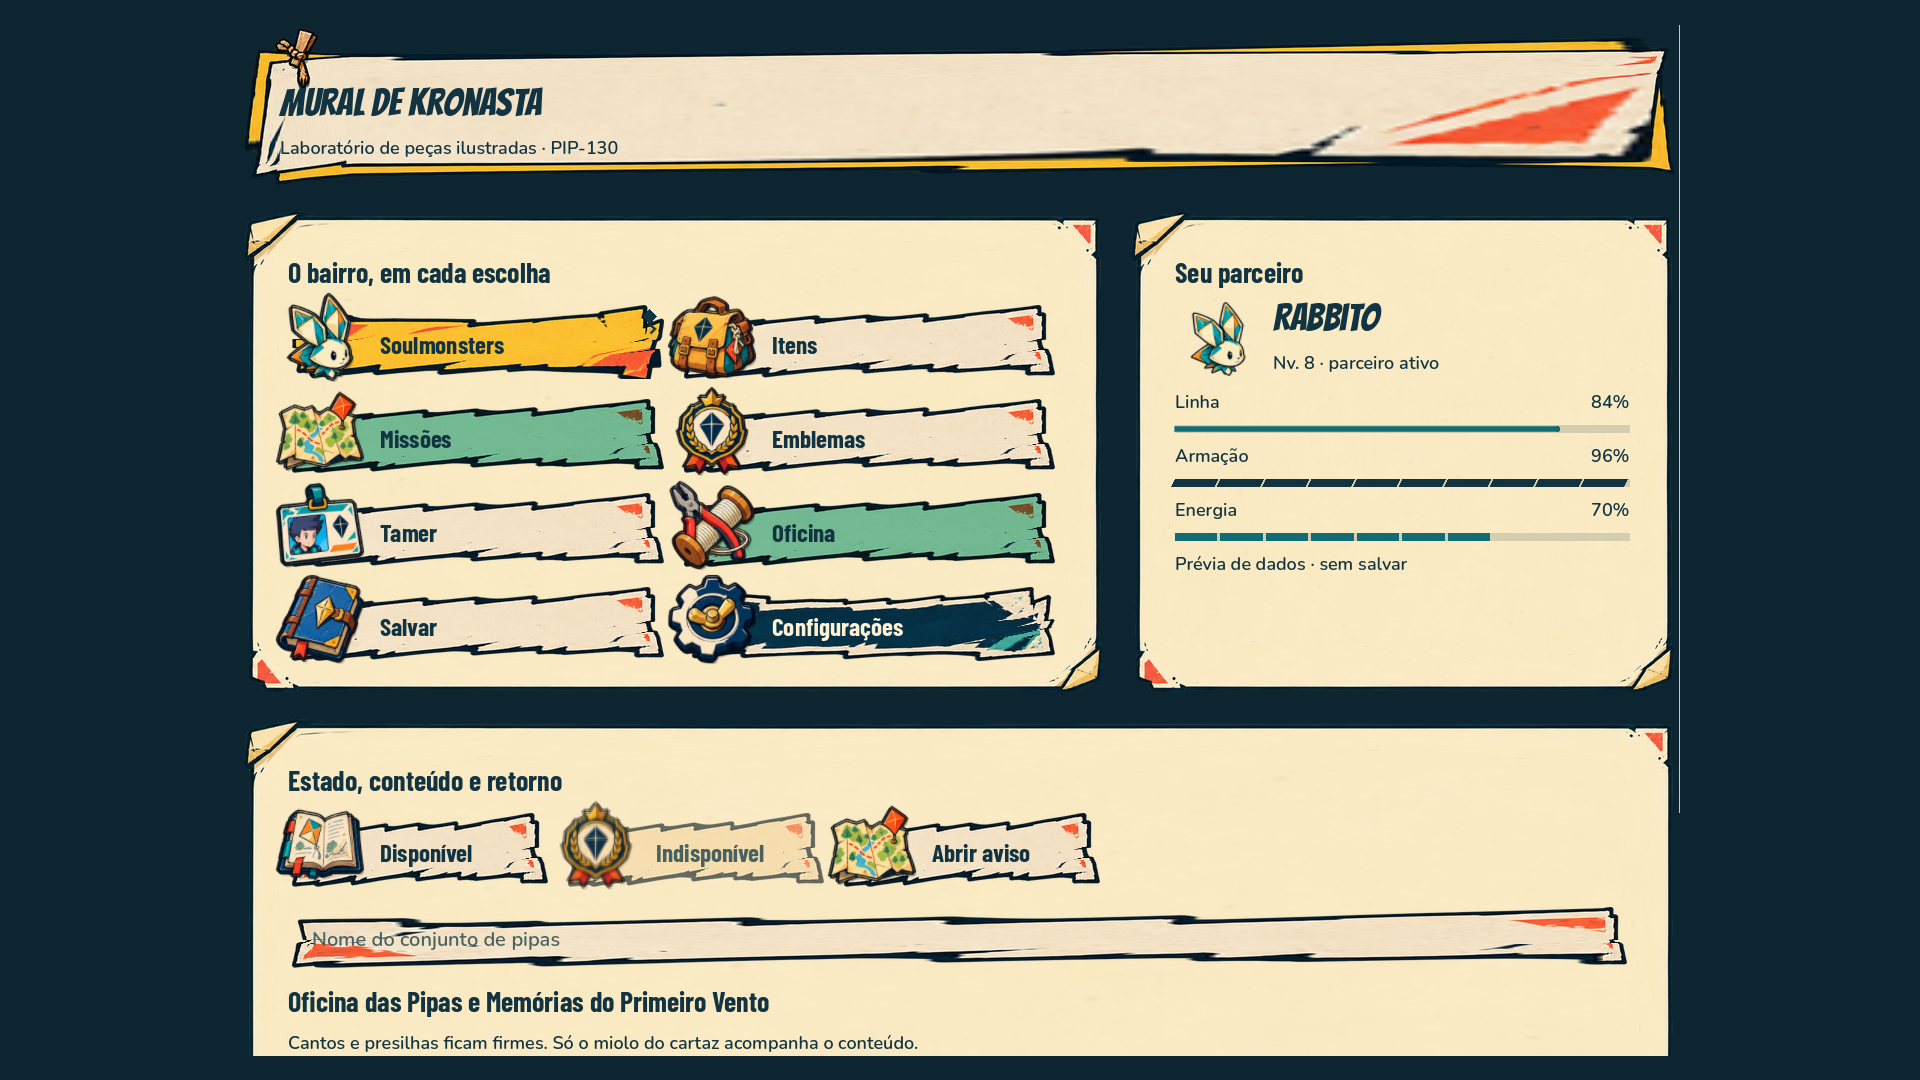
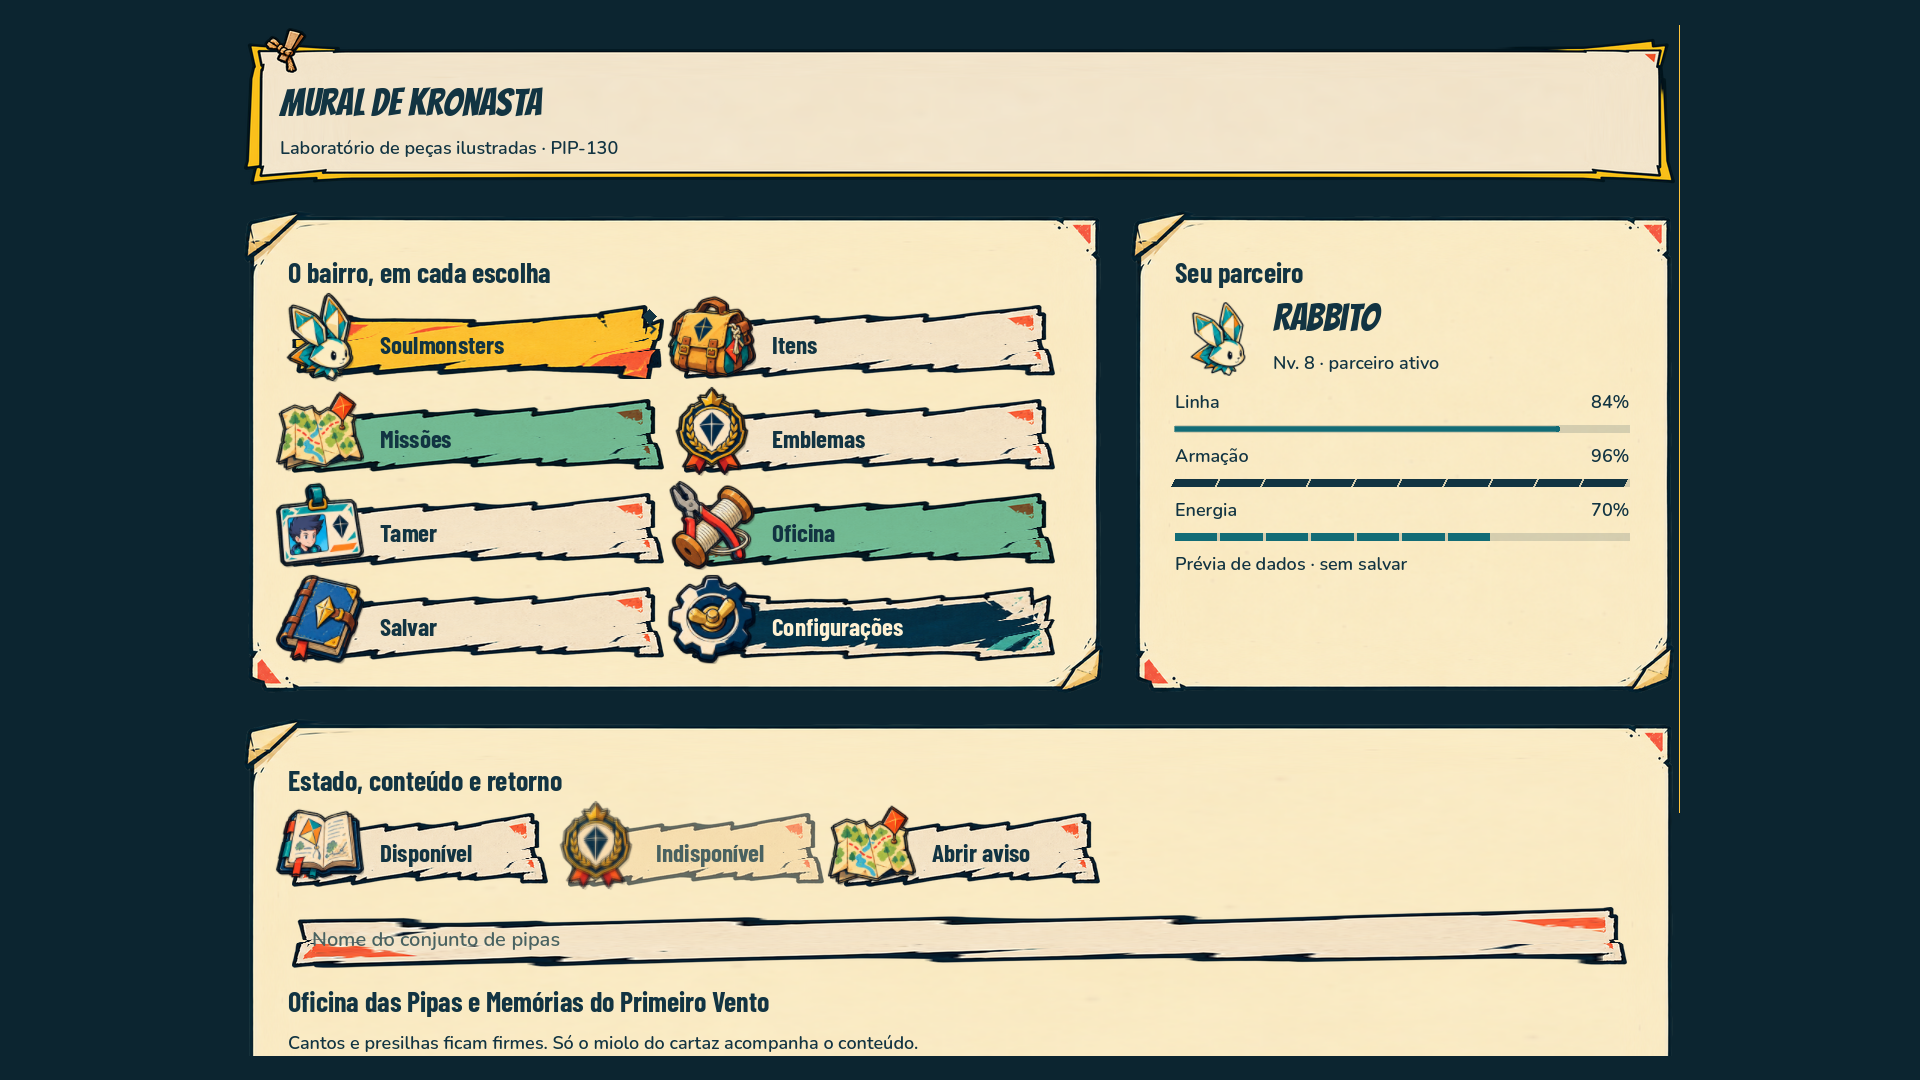
PIP-130: preservar cantos da faixa sem esticar o ornamento

Changed region(s): [[0.125, 0.0306, 0.875, 0.1833]]

diff --git a/documentation/hud-v2/pip-130/index.html b/documentation/hud-v2/pip-130/index.html
@@ -1,1 +1,1 @@
-<!doctype html><html lang="pt-BR"><head><meta charset="utf-8"><meta name="viewport" content="width=device-width,initial-scale=1"><title>Mural de Kronasta · sistema base no Godot</title><style>*{box-sizing:border-box}body{margin:0;background:#f6edd9;color:#123442;font:17px/1.6 system-ui,sans-serif}header,main,footer{max-width:1520px;margin:auto;padding:28px clamp(18px,4vw,60px)}header{border-bottom:1px solid #839995}h1{font-size:clamp(34px,5vw,64px);line-height:1.05;letter-spacing:-.04em}p{max-width:950px}a{color:#126c76;text-underline-offset:4px}.controls,nav{display:flex;flex-wrap:wrap;gap:14px;align-items:center}select{font:inherit;padding:9px;background:#fff8e8;color:#123442;border:1px solid #496261}label{font-size:15px;font-weight:650;display:flex;gap:9px;align-items:center}img{display:block;max-width:100%;height:auto;border:1px solid #496261;margin:20px 0}.notice{border-left:4px solid #ad382c;background:#eedcc2;padding:14px 20px}.eyebrow{font-size:12px;font-weight:700;letter-spacing:.12em;text-transform:uppercase}.proof{display:grid;grid-template-columns:repeat(3,minmax(0,1fr));gap:20px}.proof p{font-size:15px}a:focus-visible,select:focus-visible{outline:3px solid #ad382c;outline-offset:4px}footer{border-top:1px solid #839995;font-size:14px}code{font-size:.88em;overflow-wrap:anywhere}@media(max-width:850px){.proof{grid-template-columns:1fr}}</style></head><body><header><div class="eyebrow">Soulmonsters / PIP-130 / Godot 4.7.2</div><h1>O mural virou<br>peças de jogo.</h1><p>Cartazes ilustrados, painéis com cantos fixos, 12 ícones próprios, tipografia e Theme reutilizável. Estas são capturas do laboratório no Godot, com textos e controles nativos.</p><nav><a href="../PIP-130.md">Relatório completo</a><a href="../../../art/ui/soulmonsters-v2/pip-130/SISTEMA.md">Sistema e reprodução</a><a href="../../../godot/scenes/mural_lab.tscn">Cena para abrir no Godot</a></nav></header><main><p><strong>977 checks novos passaram.</strong> Composição em quatro resoluções, texto a 150%, navegação e foco com eventos simulados. O sistema é opt-in: a campanha ainda mantém a interface atual até a migração de cada tela.</p><div class="controls"><label for="size">Resolução <select id="size"><option>1280x720</option><option>1920x1080</option><option>1024x768</option><option>1280x800</option></select></label><label for="proof">Prova <select id="proof"><option value="principal">Laboratório principal</option><option value="pressionado">Botão pressionado</option><option value="estados">Estados e conteúdo</option><option value="texto-150">Texto 150% · início</option><option value="texto-150-dados">Texto 150% · dados</option></select></label></div><p id="status" role="status" aria-live="polite"></p><a id="full" href="capturas/1280x720-principal.png"><img id="image" src="capturas/1280x720-principal.png" alt="Laboratório Mural de Kronasta no Godot, 1280 por 720"></a><p>Amplie a imagem para conferir em tamanho nativo. Resoluções menores e texto ampliado usam redistribuição e rolagem, sem diminuir a fonte de toda a tela.</p><div class="proof"><section><h2>Arte modular</h2><p>21 arquivos RGBA: nove suportes/ornamentos e 12 ícones. Os botões têm ilustrações de 96 px que ultrapassam a borda e continuam clicáveis. Cartazes compactos e painéis altos têm construções distintas; presilhas e cantos ficam fixos.</p><a href="../../../art/ui/soulmonsters-v2/pip-130/geracao.json">Prompts e proveniência</a></section><section><h2>Interação nativa</h2><p>Button, campos, popup e foco do Godot; disponibilidade e retorno de foco verificados. Controle e mouse foram simulados: não houve teste de hardware físico ou fluxo completo da campanha.</p><a href="testes.json">Resultados do teste novo</a></section><section><h2>Leitura medida</h2><p>Valores e rótulos separados da arte. Linha contínua, nervuras de Armação e células de Energia, com nome e valor. Pares técnicos de contraste registrados, sem declarar certificação.</p><a href="contraste.json">Medições de contraste</a></section></div><div class="notice"><strong>Auditorias legadas continuam com falhas:</strong> 53 em ui_tokens_checks e uma em recorte_theme_checks. Os 54 arquivos reportados foram comparados com o HEAD anterior e estão inalterados. Os testes antigos não foram enfraquecidos nem declarados aprovados. <a href="regressoes-legadas.json">Comparação de fontes</a>.</div></main><footer>Fundação funcional isolada, não migração de todas as telas · Sem save de campanha, merge ou push · Próxima etapa: PIP-131, marca e título.</footer><script>const size=document.querySelector('#size'),proof=document.querySelector('#proof'),image=document.querySelector('#image'),full=document.querySelector('#full'),status=document.querySelector('#status');function update(){const path='capturas/'+size.value+'-'+proof.value+'.png';image.src=path;full.href=path;image.alt='Captura nativa do Godot: '+size.value+' / '+proof.options[proof.selectedIndex].text;status.textContent=size.value+' · '+proof.options[proof.selectedIndex].text+' · Abrir para ampliar';}size.addEventListener('change',update);proof.addEventListener('change',update);update();</script></body></html>
+<!doctype html><html lang="pt-BR"><head><meta charset="utf-8"><meta name="viewport" content="width=device-width,initial-scale=1"><title>Mural de Kronasta · sistema base no Godot</title><style>*{box-sizing:border-box}body{margin:0;background:#f6edd9;color:#123442;font:17px/1.6 system-ui,sans-serif}header,main,footer{max-width:1520px;margin:auto;padding:28px clamp(18px,4vw,60px)}header{border-bottom:1px solid #839995}h1{font-size:clamp(34px,5vw,64px);line-height:1.05;letter-spacing:-.04em}p{max-width:950px}a{color:#126c76;text-underline-offset:4px}.controls,nav{display:flex;flex-wrap:wrap;gap:14px;align-items:center}select{font:inherit;padding:9px;background:#fff8e8;color:#123442;border:1px solid #496261}label{font-size:15px;font-weight:650;display:flex;gap:9px;align-items:center}img{display:block;max-width:100%;height:auto;border:1px solid #496261;margin:20px 0}.notice{border-left:4px solid #ad382c;background:#eedcc2;padding:14px 20px}.eyebrow{font-size:12px;font-weight:700;letter-spacing:.12em;text-transform:uppercase}.proof{display:grid;grid-template-columns:repeat(3,minmax(0,1fr));gap:20px}.proof p{font-size:15px}a:focus-visible,select:focus-visible{outline:3px solid #ad382c;outline-offset:4px}footer{border-top:1px solid #839995;font-size:14px}code{font-size:.88em;overflow-wrap:anywhere}@media(max-width:850px){.proof{grid-template-columns:1fr}}</style></head><body><header><div class="eyebrow">Soulmonsters / PIP-130 / Godot 4.7.2</div><h1>O mural virou<br>peças de jogo.</h1><p>Cartazes ilustrados, painéis com cantos fixos, 12 ícones próprios, tipografia e Theme reutilizável. Estas são capturas do laboratório no Godot, com textos e controles nativos.</p><nav><a href="../PIP-130.md">Relatório completo</a><a href="../../../art/ui/soulmonsters-v2/pip-130/SISTEMA.md">Sistema e reprodução</a><a href="../../../godot/scenes/mural_lab.tscn">Cena para abrir no Godot</a></nav></header><main><p><strong>978 checks novos passaram.</strong> Composição em quatro resoluções, texto a 150%, navegação e foco com eventos simulados. O sistema é opt-in: a campanha ainda mantém a interface atual até a migração de cada tela.</p><p><a href="capturas/faixa-larguras.png">Ver a correção da faixa em 400, 760 e 1.200 px</a></p><div class="controls"><label for="size">Resolução <select id="size"><option>1280x720</option><option>1920x1080</option><option>1024x768</option><option>1280x800</option></select></label><label for="proof">Prova <select id="proof"><option value="principal">Laboratório principal</option><option value="pressionado">Botão pressionado</option><option value="estados">Estados e conteúdo</option><option value="texto-150">Texto 150% · início</option><option value="texto-150-dados">Texto 150% · dados</option></select></label></div><p id="status" role="status" aria-live="polite"></p><a id="full" href="capturas/1280x720-principal.png"><img id="image" src="capturas/1280x720-principal.png" alt="Laboratório Mural de Kronasta no Godot, 1280 por 720"></a><p>Amplie a imagem para conferir em tamanho nativo. Resoluções menores e texto ampliado usam redistribuição e rolagem, sem diminuir a fonte de toda a tela.</p><div class="proof"><section><h2>Arte modular</h2><p>22 arquivos RGBA, incluindo a faixa anterior preservada. Os suportes ativos e os 12 ícones permanecem separados. Os botões têm ilustrações de 96 px que ultrapassam a borda e continuam clicáveis. Cartazes compactos e painéis altos têm construções distintas; presilhas e cantos ficam fixos.</p><a href="../../../art/ui/soulmonsters-v2/pip-130/geracao.json">Prompts e proveniência</a></section><section><h2>Interação nativa</h2><p>Button, campos, popup e foco do Godot; disponibilidade e retorno de foco verificados. Controle e mouse foram simulados: não houve teste de hardware físico ou fluxo completo da campanha.</p><a href="testes.json">Resultados do teste novo</a></section><section><h2>Leitura medida</h2><p>Valores e rótulos separados da arte. Linha contínua, nervuras de Armação e células de Energia, com nome e valor. Pares técnicos de contraste registrados, sem declarar certificação.</p><a href="contraste.json">Medições de contraste</a></section></div><div class="notice"><strong>Auditorias legadas continuam com falhas:</strong> 53 em ui_tokens_checks e uma em recorte_theme_checks. Os 54 arquivos reportados foram comparados com o HEAD anterior e estão inalterados. Os testes antigos não foram enfraquecidos nem declarados aprovados. <a href="regressoes-legadas.json">Comparação de fontes</a>.</div></main><footer>Fundação funcional isolada, não migração de todas as telas · Sem save de campanha, merge ou push · Próxima etapa: PIP-131, marca e título.</footer><script>const size=document.querySelector('#size'),proof=document.querySelector('#proof'),image=document.querySelector('#image'),full=document.querySelector('#full'),status=document.querySelector('#status');function update(){const path='capturas/'+size.value+'-'+proof.value+'.png';image.src=path;full.href=path;image.alt='Captura nativa do Godot: '+size.value+' / '+proof.options[proof.selectedIndex].text;status.textContent=size.value+' · '+proof.options[proof.selectedIndex].text+' · Abrir para ampliar';}size.addEventListener('change',update);proof.addEventListener('change',update);update();</script></body></html>

diff --git a/art/ui/soulmonsters-v2/pip-130/slice_assets.py b/art/ui/soulmonsters-v2/pip-130/slice_assets.py
@@ -47,6 +47,10 @@ with Image.open(ROOT / 'fontes/boards-source.png') as board_source:
 for n, name in enumerate(['board-paper','board-ink','board-sun']):
     cut('boards-source.png', name, (round(n*width/3),0,round((n+1)*width/3),height), 'pieces')
 
+with Image.open(ROOT / 'fontes/title-paper-corners-source.png') as title_source:
+    width, height = title_source.size
+cut('title-paper-corners-source.png', 'title-paper-v2', (0,0,width,height), 'pieces')
+
 # The generated sheet's optical rows are not mathematically equal. Cuts follow
 # the transparent gutters, inspected before export, instead of clipping art.
 xs, ys = [0, 386, 730, 1094, 1448], [0, 402, 735, 1086]

diff --git a/art/ui/soulmonsters-v2/pip-130/SISTEMA.md b/art/ui/soulmonsters-v2/pip-130/SISTEMA.md
@@ -6,7 +6,7 @@ Direção: [B ilustrada, revisão 2](../pip-128-v2/B-prancha.png), escolhida na 
 
 A assinatura combina cartaz impresso de contorno desenhado, dobra/reforço de papel e registro de tinta. Amarrações e presilhas pertencem às peças fixas. As escolhas usam cartazes mais expressivos; superfícies altas de consulta usam borda calma para não repetir rasgos junto aos números. Os ícones são ilustrações próprias com contorno e sombra chapada, não símbolos genéricos substitutos.
 
-Foram produzidos três atlases por ferramenta integrada de imagem: seis suportes/ornamentos, 12 ícones e três painéis altos. As artes foram inspecionadas antes do corte. `geracao.json` registra referências e saídas; os três prompts estão nesta pasta. `slice_assets.py` só faz cortes mecânicos, enquadramento por alpha, redução proporcional e padding transparente; não redesenha personagens nem modifica a paleta. As fontes originais permanecem em `fontes/`.
+Foram produzidos três atlases por ferramenta integrada de imagem: seis suportes/ornamentos, 12 ícones e três painéis altos; depois, uma edição específica da faixa corrigiu seus cantos expansíveis. As artes foram inspecionadas antes do corte. `geracao.json` registra referências e saídas; os três prompts estão nesta pasta. `slice_assets.py` só faz cortes mecânicos, enquadramento por alpha, redução proporcional e padding transparente; não redesenha personagens nem modifica a paleta. As fontes originais permanecem em `fontes/`.
 
 ### Famílias de suporte
 
@@ -17,7 +17,9 @@ Foram produzidos três atlases por ferramenta integrada de imagem: seis suportes
 | `clips` | Ornamento separado, opcional; não esticar junto ao conteúdo. |
 | `board-paper`, `board-ink`, `board-sun` | Superfícies grandes, com cantos ilustrados e trechos retos expansíveis. |
 
-O recorte para peças compactas usa margens de textura 28/36/28/28 px (esquerda/cima/direita/baixo), no arquivo reduzido. Painéis altos usam 60 px em cada lado. A faixa clara usa canto esquerdo de 112 px e topo de 55 px para preservar a presilha. O centro acompanha o conteúdo; cantos, ícones e presilhas não são reescalados pelo comprimento do texto. A repetição vertical de rasgos foi reprovada na revisão e removida com o atlas de painéis próprios.
+O recorte para peças compactas usa margens de textura 28/36/28/28 px (esquerda/cima/direita/baixo), no arquivo reduzido. Painéis altos usam 60 px em cada lado. A faixa clara ativa é `title-paper-v2`: margens 112/55/96/28 px. A presilha e o pequeno registro vermelho ficam inteiros nos cantos superiores fixos; só papel vazio participa da expansão. A peça anterior permanece como histórico, sem uso pelo Theme. O centro acompanha o conteúdo; cantos, ícones e presilhas não são reescalados pelo comprimento do texto. A repetição vertical de rasgos foi reprovada na revisão e removida com o atlas de painéis próprios.
+
+Na revisão da faixa, o dono apontou um detalhe vermelho esticado: o corte direito de 28 px deixava parte dele na área central, e a decoração também atravessava o corte vertical. Foi produzida uma versão específica com o registro restrito ao canto superior e corte direito de 96 px. `title-corners-prompt.txt` e `fontes/title-paper-corners-source.png` preservam a edição. A prova `faixa-larguras.png` compara 400, 760 e 1.200 px; o teste do Theme verifica que os pixels vermelhos ficam fora das duas faixas expansíveis.
 
 ## Paleta semântica
 

diff --git a/documentation/hud-v2/PIP-130.md b/documentation/hud-v2/PIP-130.md
@@ -6,17 +6,19 @@ Entrega local: 01/11/2026, branch `codex/hud-identidade-soulmonsters`. Direção
 
 ## Entrega
 
-21 peças RGBA de produção: nove suportes/ornamentos e 12 ícones. Três atlases originais com prompts/proveniência, recortes reproduzíveis, paleta semântica centralizada, papéis de tipografia, Theme `.tres`, botão nativo com foco/estado e medidores por forma. O laboratório demonstra menus, campos, mensagens, indicadores, textos longos e retorno de uma janela modal, sem sessão/save.
+22 arquivos RGBA: dez suportes/ornamentos (incluindo a faixa anterior histórica) e 12 ícones. Três atlases originais com prompts/proveniência, recortes reproduzíveis, paleta semântica centralizada, papéis de tipografia, Theme `.tres`, botão nativo com foco/estado e medidores por forma. O laboratório demonstra menus, campos, mensagens, indicadores, textos longos e retorno de uma janela modal, sem sessão/save.
 
 O Theme reaproveita a cobertura técnica anterior; a instalação nova é explícita e isolada. O Theme global, a campanha, seus fluxos e o balanceamento não mudaram nesta tarefa. Assets ilustrados são separados dos rótulos e valores nativos. Ícones usam redução filtrada com mipmaps.
 
 ## Verificação
 
+Correção da faixa: o detalhe vermelho estava incluído parcialmente no centro expansível. `title-paper-v2` coloca os ornamentos nos cantos superiores, com margem direita de 96 px; a peça anterior foi preservada. [Comparação em três larguras](pip-130/capturas/faixa-larguras.png). O teste adicional verifica a região dos pixels vermelhos nos dois eixos. O pacote passou a conter 22 imagens RGBA, incluindo a faixa anterior histórica; a interface usa a nova peça.
+
 Revisão posterior do dono: os ícones estavam pequenos e deveriam sair do card. A ilustração passou para uma camada independente de 96×96 px, com contorno claro/sombra curta e área exposta clicável. O texto mantém recuo de 92 px. Foram adicionadas verificações de colisão entre cartões, espaço dos títulos e limites do viewport nas quatro resoluções e em texto ampliado; gutters da primeira linha do atlas também foram corrigidos. As 20 capturas foram renovadas.
 
 | Prova | Resultado |
 | --- | --- |
-| Teste novo `mural_theme_checks.gd` | **977 checks, zero falhas**, código de saída 0 (216 na entrega inicial; ampliação na revisão dos ícones) |
+| Teste novo `mural_theme_checks.gd` | **978 checks, zero falhas**, código de saída 0 (216 na entrega inicial; ampliação na revisão dos ícones) |
 | Resoluções | 1280×720, 1920×1080, 1024×768 e 1280×800; pedidos e dimensões obtidas registrados |
 | Capturas nativas | 20: principal, pressionado, estados, texto 150% e dados com texto 150%, em cada resolução |
 | Conteúdo/layout | Limites horizontais, mínimos nativos de texto/ícone e margens; texto grande redistribui o cartão e usa rolagem |

diff --git a/documentation/hud-v2/PLANO.md b/documentation/hud-v2/PLANO.md
@@ -10,7 +10,7 @@ Critério central: uma captura sem logo precisa ser reconhecível como Soulmonst
 | 2 | PIP-127 | Benchmark dos sete jogos; 10 princípios próprios | Estudo local entregue; 27 evidências, versões e limites em PIP-127.md |
 | 3 | PIP-128 | A papel/vareta; B muro; C carretel/Elo; 3 mocks por direção | V1 rejeitada; B ilustrada v2 preferida pelo dono e adotada na PIP-129 |
 | 4 | PIP-129 | Escolher direção e registrar justificativa | B — Mural de Kronasta; decisão local em DECISAO.md |
-| 5 | PIP-130 | Forma-assinatura, paleta, tipografia, ícones e Theme | Fundação opt-in e ícones salientes implementados; 977 checks novos passaram; auditorias legadas falham em fontes inalteradas, ver PIP-130.md |
+| 5 | PIP-130 | Forma-assinatura, paleta, tipografia, ícones e Theme | Fundação opt-in e ícones salientes implementados; 978 checks novos passaram; auditorias legadas falham em fontes inalteradas, ver PIP-130.md |
 | 6 | PIP-131 | Logo e tela de título | Próxima etapa; sistema base B disponível |
 | 7 | PIP-132 | Exploração e Kronasta | Pendente do sistema |
 | 8 | PIP-133 | Batalha, VS de campeão, enroscada | Pendente do sistema |
